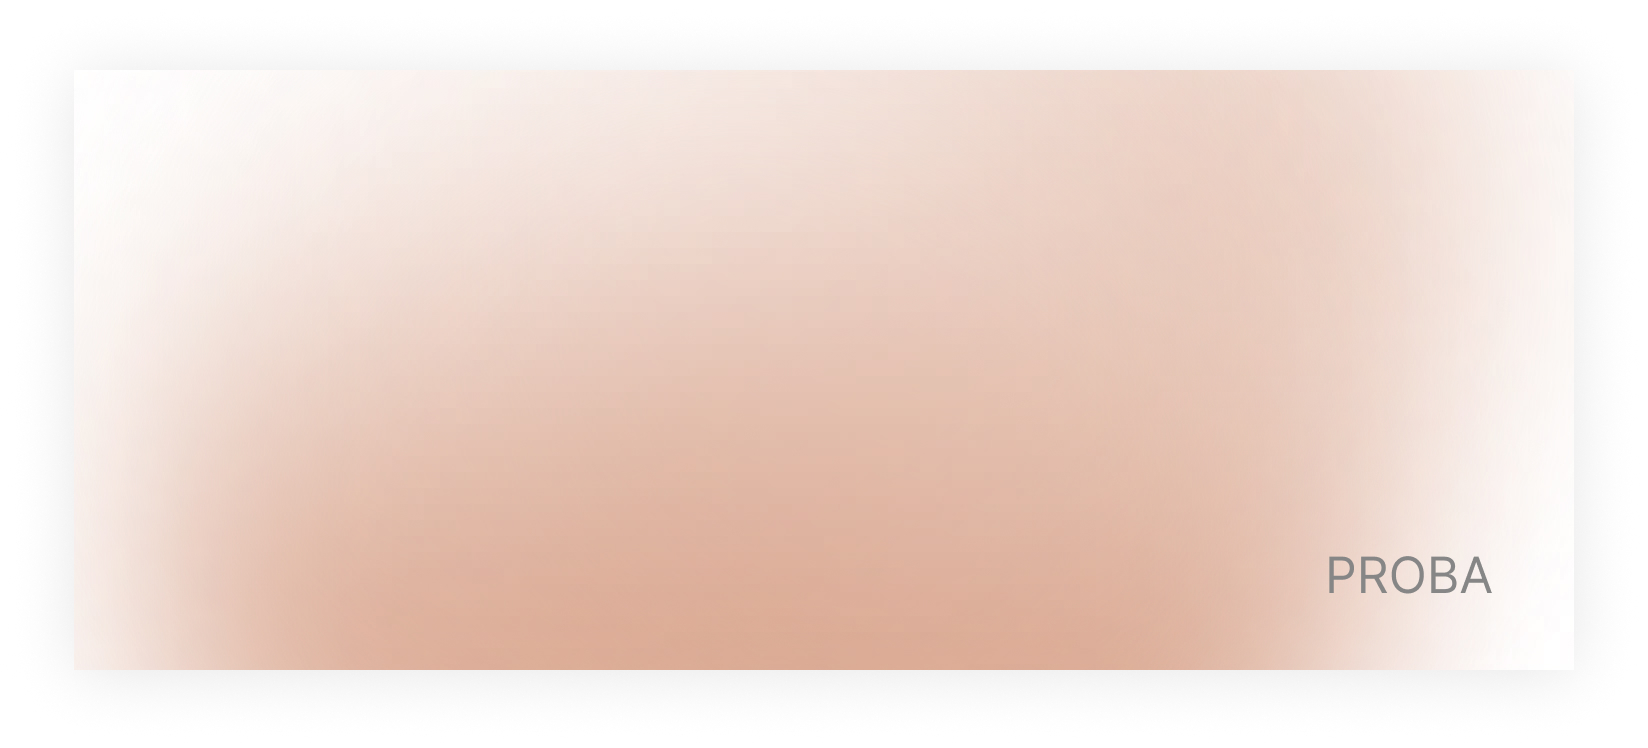
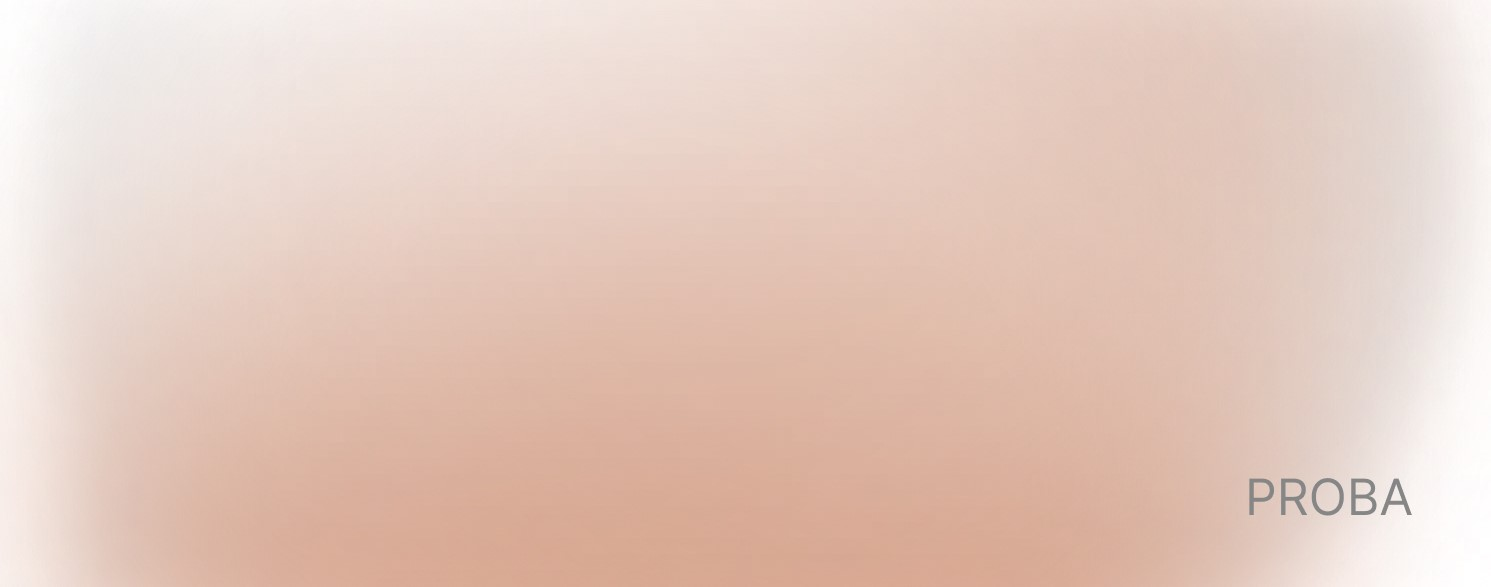
test- h2 and h1 cover the cover image and are located in the center of it

Changed region(s): [[0.0, 0.0, 0.9873, 1.0]]

diff --git a/style.css b/style.css
@@ -77,9 +77,9 @@ article > h2:first-of-type::before {
   /* /* display: none !important; */
 }
 
-/* .notion-header__content {
+.notion-header__content {
   display: none !important;
-  } /*CHANGED*/
+  }
 
 .theme-dark .notion-code code {
   color: var(--color-text-default) !important;
@@ -151,6 +151,7 @@ h1.notion-heading:first-of-type {
 }
 
 h2.notion-heading:not(.toggle) {
+  margin-top: 0 !important; /*CHANGED*/
   margin-bottom: 12px !important;
 }
 
@@ -989,4 +990,56 @@ notion-collection-card gallery
   padding-left: 24px !important;
   letter-spacing: -.3px !important;
   border-color: var(--color-border-default) !important;
+}
+
+
+
+/*NEW cover image is the same height as h2&h1 in article, article goes to top so that h2&h1 is in a center of cover image */
+
+/* 1. Ustawienie img, aby dopasowywał się do 100% szerokości i wysokości rodzica */
+.notion-header__cover img {
+  width: 100% !important;
+  height: 100% !important;
+  object-fit: cover !important;
+}
+
+/* 2. Dynamiczne dopasowanie wysokości obrazu do wysokości h2 i h1 */
+.notion-header {
+  position: relative !important; /* Ustawienie relatywnego kontekstu dla absolutnych elementów */
+}
+
+.notion-header__cover {
+  height: auto !important; /* Wstępne ustawienie na auto */
+  display: flex !important;
+  align-items: center !important;
+  justify-content: center !important;
+}
+
+/* Pseudo-element na utrzymanie dynamicznej wysokości */
+.notion-header__cover::before {
+  content: '' !important;
+  display: block !important;
+  height: calc((var(--h1-height, 0px) + var(--h2-height, 0px)) + 80px) !important; /* Padding 40px top i bottom */
+}
+
+/* 3. Centrowanie pierwszego h2 i h1 na środku obrazu */
+article {
+  position: relative !important;
+}
+
+article h1, article h2 {
+  margin: 0 !important;
+  position: absolute !important;
+  top: 50% !important;
+  left: 50% !important;
+  transform: translate(-50%, -50%) !important; /* Centrowanie h1 i h2 */
+  text-align: center !important;
+  z-index: 1 !important; /* Zapewnienie, że h1 i h2 będą nad obrazem */
+}
+
+/* Ustawienie pozostałych elementów article pod spodem h1 i h2 */
+article > :not(h1):not(h2) {
+  position: relative !important;
+  z-index: 0 !important; /* Zapewnienie, że elementy pozostaną pod h1 i h2 */
+  margin-top: calc((var(--h1-height, 0px) + var(--h2-height, 0px)) + 80px) !important; /* Padding 40px top i bottom */
 }
